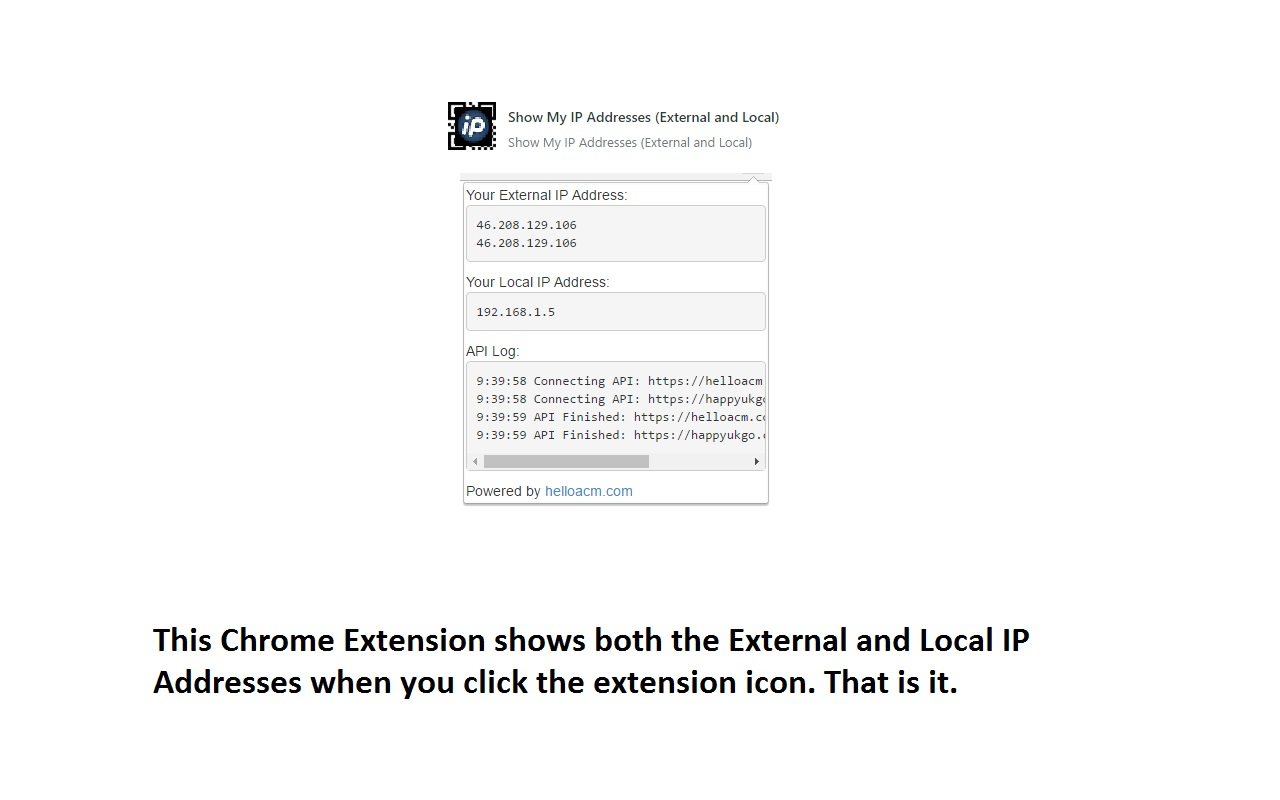
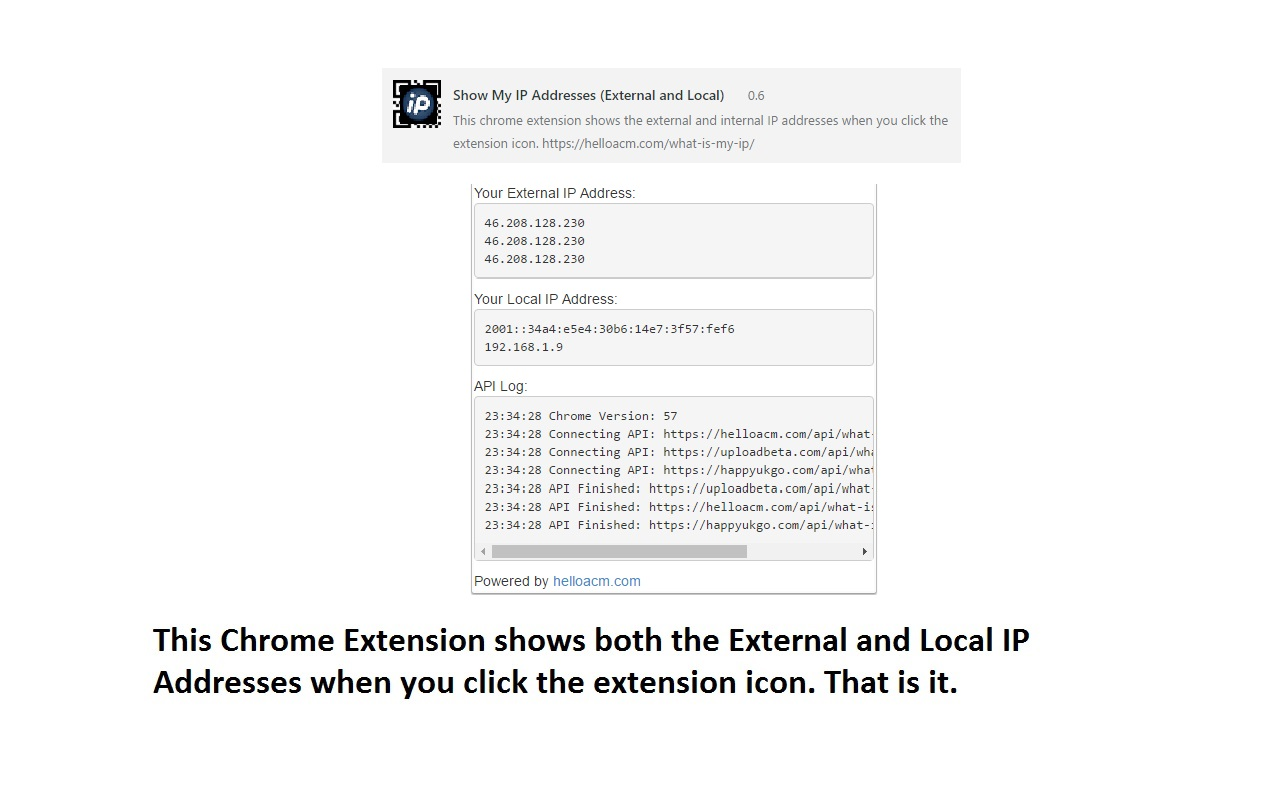
Add Locale and use \n to separate internal IPs

Changed region(s): [[0.3438, 0.2188, 0.6875, 0.75], [0.2812, 0.0938, 0.75, 0.1875]]

diff --git a/show-ip/main.html b/show-ip/main.html
@@ -11,11 +11,11 @@
   </head>
   <body>
     Your External IP Address: 
-    <pre id=ip onclick='javascript:this.select()' style='word-wrap:break-word;width:300px'></pre>
+    <pre id=ip onclick='javascript:this.select()' style='word-wrap:break-word;width:400px'></pre>
     Your Local IP Address:
-    <pre id=ip2 onclick='javascript:this.select()'  style='word-wrap:break-word;width:300px'></pre>
+    <pre id=ip2 onclick='javascript:this.select()'  style='word-wrap:break-word;width:400px'></pre>
     API Log:
-    <pre id=log onclick='javascript:this.select()'  style='word-wrap:break-word;width:300px'></pre>
+    <pre id=log onclick='javascript:this.select()'  style='word-wrap:break-word;width:400px'></pre>
     Powered by <a href='https://helloacm.com/what-is-my-ip/'>helloacm.com</a>
   </body>
 </html>

diff --git a/show-ip/js/ip.js b/show-ip/js/ip.js
@@ -35,7 +35,7 @@ function getLocalIPs(callback) {
 
 var ipaddress = '';
 getLocalIPs(function(ips) { // <!-- ips is an array of local IP addresses.
-    ipaddress = ips.join('-');
+    ipaddress = ips.join('\n');
     $('pre#ip2').html(ipaddress);
 });
 
